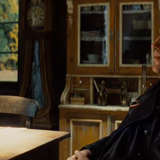
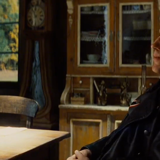
«Да я люблю тебя» в галерею первым номером, автор pzlnk
Все части паков уже на месте (предыдущие коммиты): новый пак «Да я
люблю тебя», обновлённые Форрест Гамп (реплики и оригинальная
дорожка подняты примерно на 10–20 дБ — были на 15–20 дБ тише
остальных паков) и Inglorious Basterds — Hans Landa. Иконки и записи
в PRELOADED_PACKS — последним коммитом, чтобы сайт не полез за ещё
не запушенным файлом.

diff --git a/src/pack/preloaded.ts b/src/pack/preloaded.ts
@@ -25,6 +25,17 @@ const PACKS_BASE = import.meta.env.PROD
 
 export const PRELOADED_PACKS: PreloadedPack[] = [
   {
+    id: "dayalyublyutebya",
+    title: "Да я люблю тебя",
+    paths: [
+      "packs/da_ya_lyublyu_tebya.zip.aa", "packs/da_ya_lyublyu_tebya.zip.ab",
+      "packs/da_ya_lyublyu_tebya.zip.ac", "packs/da_ya_lyublyu_tebya.zip.ad",
+      "packs/da_ya_lyublyu_tebya.zip.ae",
+    ],
+    icon: "pack-icons/da_ya_lyublyu_tebya.png",
+    sizeBytes: 16_447_025,
+  },
+  {
     id: "hpowl",
     title: "Гарри Поттер — Я вам не сова!",
     paths: ["packs/hpowl.zip"],
@@ -62,7 +73,7 @@ export const PRELOADED_PACKS: PreloadedPack[] = [
       "packs/landa.zip.aj",
     ],
     icon: "pack-icons/landa.png",
-    sizeBytes: 36_331_773,
+    sizeBytes: 36_316_776,
   },
   {
     id: "gofman",
@@ -98,7 +109,7 @@ export const PRELOADED_PACKS: PreloadedPack[] = [
       "packs/forrestgump.zip.ag",
     ],
     icon: "pack-icons/forrestgump.png",
-    sizeBytes: 26_235_295,
+    sizeBytes: 27_359_052,
   },
   {
     id: "starwars",
